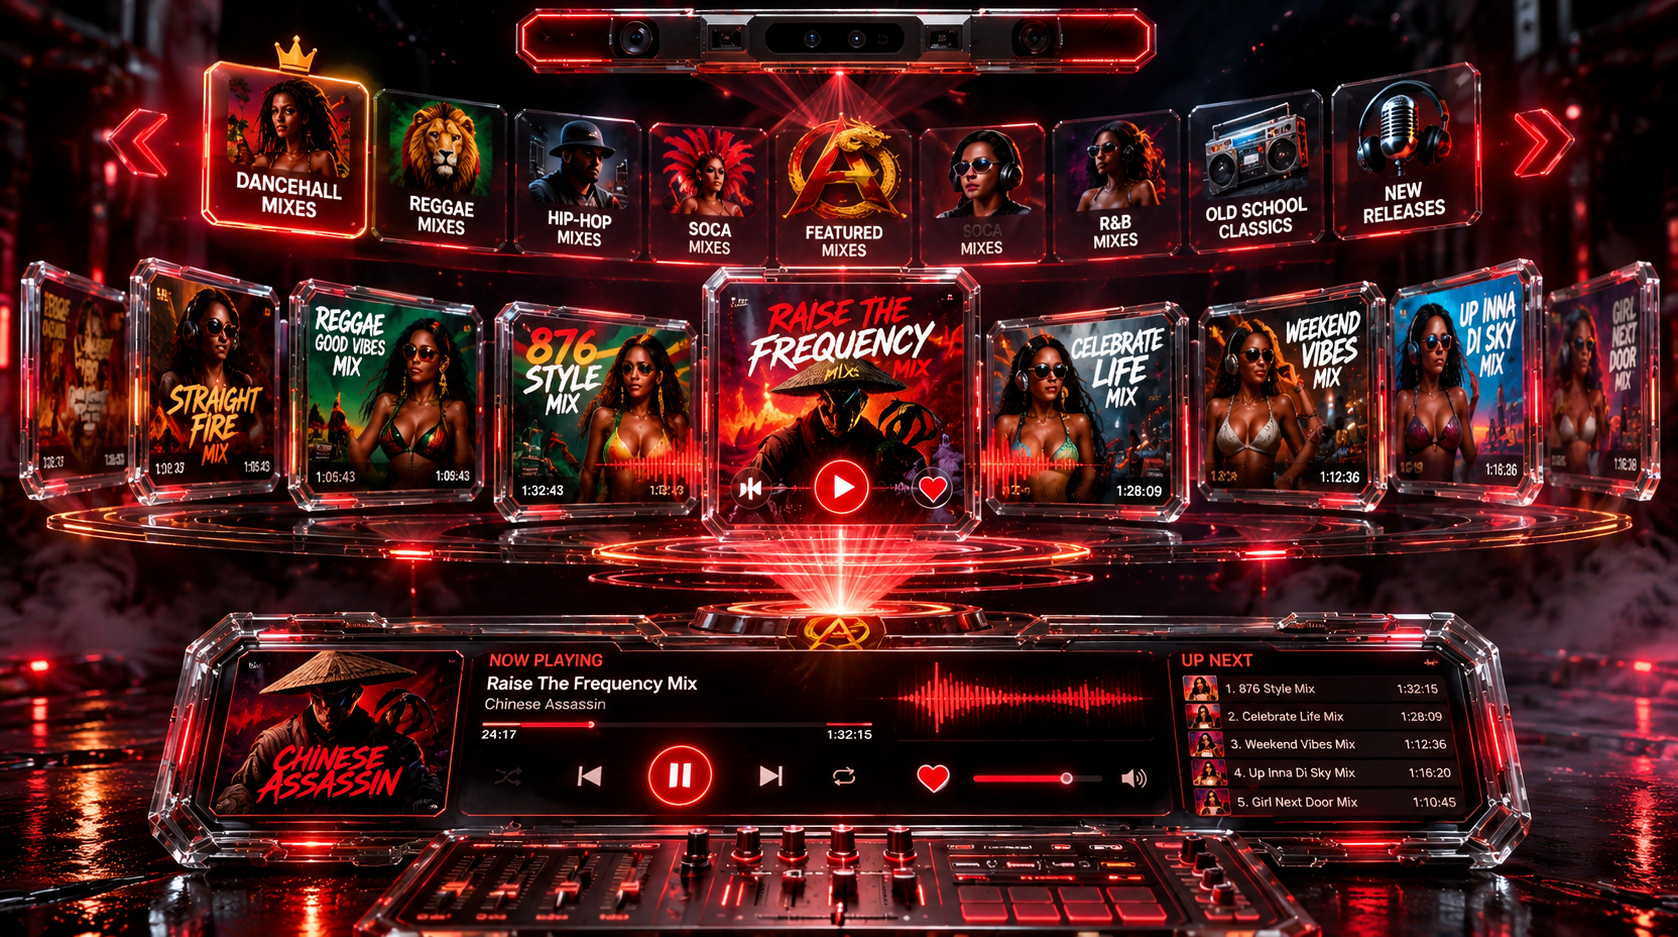
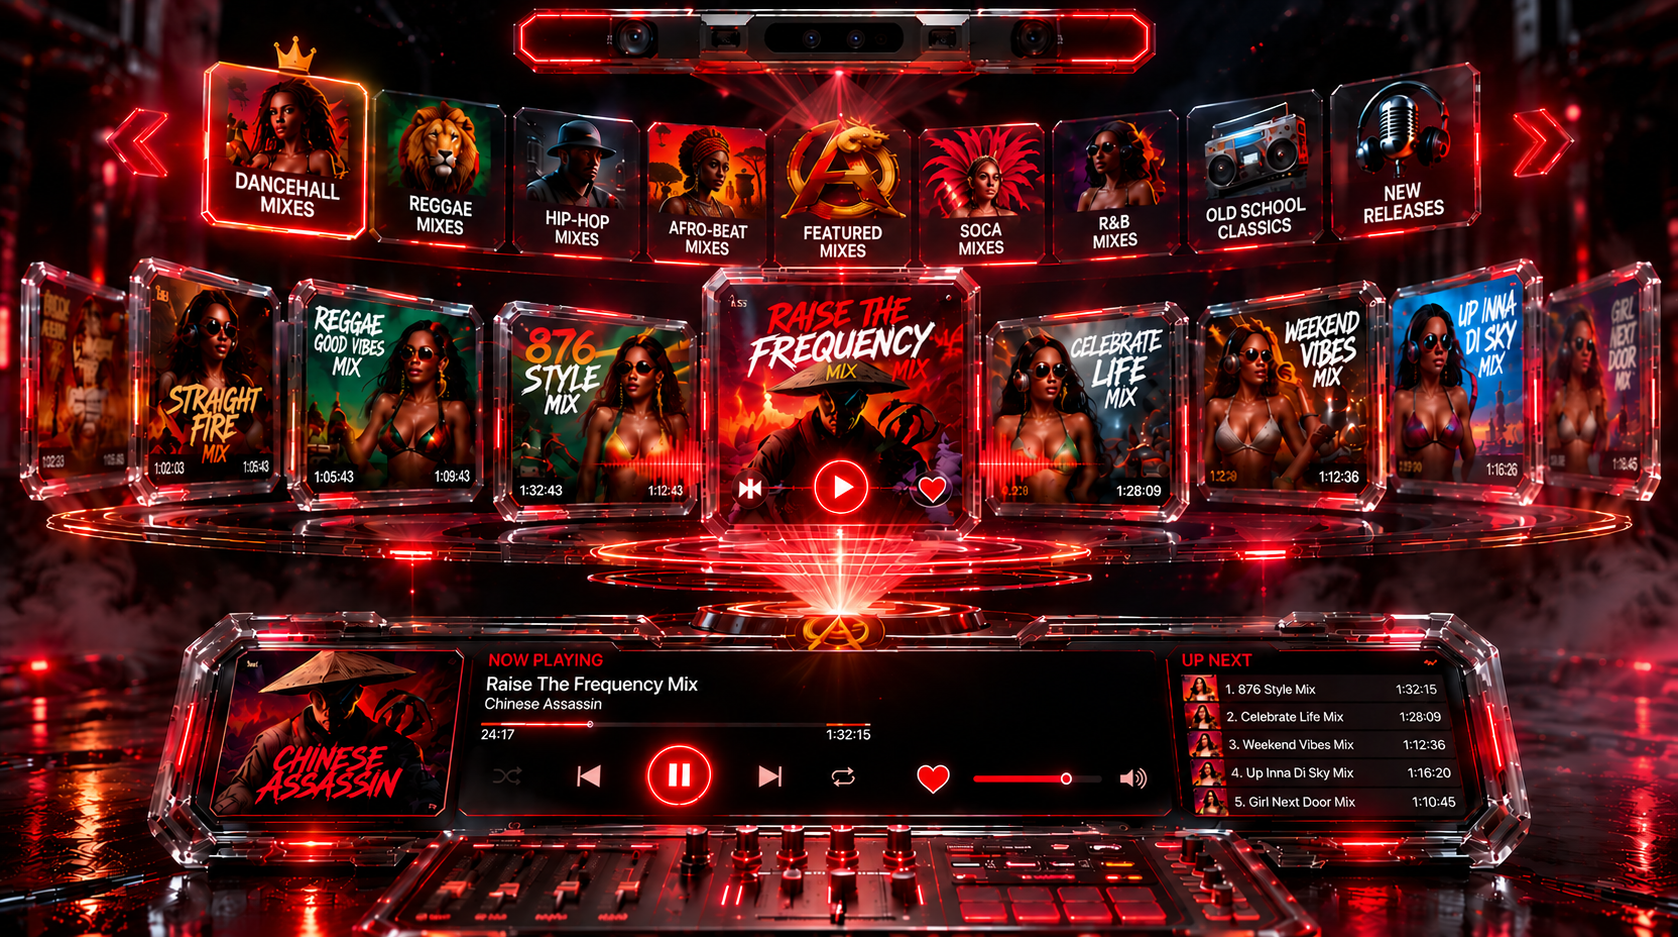
checkpoint: replaced with Chinese Assassin Holographic DJ Mixer2 and removed duplicate controls

Changed region(s): [[0.0, 0.0, 1.0, 1.0], [0.4958, 0.7737, 0.5268, 0.8356], [0.9917, 0.2476, 1.0, 0.2785]]

diff --git a/holographic-universe.html b/holographic-universe.html
@@ -188,76 +188,66 @@
     }
 
     /* ── 4. CONSOLE INTERACTIVE CONTROLS ── */
-    /* Dynamic Scrubber Overlay */
+    /* Transparent Scrubber Seeker Overlay (Preserves Original Painted Track) */
     .holo-scrubber-overlay {
       position: absolute;
       left: 22.53%;
-      top: 78.44%;
+      top: 78.10%;
       width: 23.54%;
-      height: 1.49%;
-      z-index: 30;
+      height: 2.20%;
+      z-index: 32;
       cursor: pointer;
       display: flex;
       align-items: center;
+      background: transparent;
+      touch-action: none;
     }
 
     .holo-scrubber-track-inner {
       position: relative;
       width: 100%;
-      height: 5px;
+      height: 100%;
       background: transparent;
-      border-radius: 3px;
+      border: none;
+      box-shadow: none;
     }
 
+    /* Duplicate visual progress bar and duplicate thumb suppressed */
     .holo-scrubber-fill-bar {
-      position: relative;
-      height: 100%;
-      width: 0%;
-      background: #ff1e38;
-      box-shadow: 0 0 10px #ff2a4b;
-      border-radius: 3px;
+      display: none !important;
     }
 
     .holo-scrubber-head {
-      position: absolute;
-      right: -6px;
-      top: -4px;
-      width: 13px;
-      height: 13px;
-      border-radius: 50%;
-      background: #ffffff;
-      box-shadow: 0 0 8px #ff2a4b, 0 0 15px #ffffff;
+      display: none !important;
     }
 
-    /* Transport Buttons */
+    /* Transport Buttons (Clean Transparent Hotspots - Zero Duplicate Borders/Icons) */
     .holo-ctrl-btn {
       position: absolute;
       border-radius: 50%;
       cursor: pointer;
       z-index: 30;
       background: transparent;
-      border: 1px solid transparent;
-      transition: all 0.18s ease;
+      border: none;
+      outline: none;
+      box-shadow: none;
+      transition: background 0.18s ease, box-shadow 0.18s ease;
       display: flex;
       align-items: center;
       justify-content: center;
-      outline: none;
     }
 
     .holo-ctrl-btn:hover {
-      background: rgba(255, 30, 56, 0.25);
-      border-color: #ff2a4b;
-      box-shadow: 0 0 14px rgba(255, 30, 56, 0.6);
-      transform: scale(1.1);
+      background: rgba(255, 30, 56, 0.18);
+      box-shadow: 0 0 12px rgba(255, 30, 56, 0.5);
     }
 
     .holo-ctrl-btn.active {
-      background: rgba(255, 30, 56, 0.4);
-      border-color: #ff2a4b;
-      box-shadow: 0 0 16px rgba(255, 30, 56, 0.8);
+      background: rgba(255, 30, 56, 0.30);
+      box-shadow: 0 0 16px rgba(255, 42, 75, 0.7);
     }
 
-    /* Big Center Hero Play/Pause Button */
+    /* Big Center Hero Play/Pause Button (Transparent Hotspot over Original Painted Artwork) */
     .holo-hero-play-btn {
       position: absolute;
       left: 33.67%;
@@ -268,37 +258,59 @@
       cursor: pointer;
       z-index: 35;
       background: transparent;
-      border: 2px solid transparent;
-      transition: all 0.2s cubic-bezier(0.16, 1, 0.3, 1);
+      border: none;
+      outline: none;
+      box-shadow: none;
+      transition: background 0.2s ease, box-shadow 0.2s ease;
     }
 
     .holo-hero-play-btn:hover {
-      background: rgba(255, 30, 56, 0.3);
-      border-color: #ff3344;
-      box-shadow: 0 0 25px rgba(255, 42, 75, 0.9);
-      transform: scale(1.08);
+      background: rgba(255, 30, 56, 0.15);
+      box-shadow: 0 0 20px rgba(255, 42, 75, 0.6);
     }
 
-    /* Volume Slider */
+    /* Volume Slider (Transparent Functional Overlay over Painted Artwork) */
     .holo-vol-slider-overlay {
       position: absolute;
       left: 55.90%;
-      top: 84.95%;
+      top: 84.50%;
       width: 8.94%;
-      height: 2.13%;
-      z-index: 30;
+      height: 3.00%;
+      z-index: 32;
       display: flex;
       align-items: center;
+      cursor: pointer;
+      touch-action: none;
     }
 
     .holo-vol-input {
       width: 100%;
-      height: 4px;
+      height: 100%;
       -webkit-appearance: none;
+      appearance: none;
       background: transparent;
       cursor: pointer;
-      accent-color: #ff2a4b;
       outline: none;
+      border: none;
+      margin: 0;
+      padding: 0;
+      opacity: 0.001; /* Completely transparent so only the painted artwork is visible */
+    }
+
+    .holo-vol-input::-webkit-slider-thumb {
+      -webkit-appearance: none;
+      appearance: none;
+      width: 22px;
+      height: 22px;
+      background: transparent;
+      cursor: pointer;
+    }
+
+    .holo-vol-input::-moz-range-thumb {
+      width: 22px;
+      height: 22px;
+      background: transparent;
+      cursor: pointer;
     }
 
     /* Up Next Queue Clickable Rows */
@@ -326,20 +338,10 @@
       border-color: #ff2a4b;
     }
 
-    /* Live Dynamic Waveform Equalizer Bars Overlay */
+    /* Duplicate Audio Spectrum Suppressed (Preserves Original Painted Spectrum) */
     .holo-waveform-overlay {
-      position: absolute;
-      left: 50.66%;
-      top: 73.64%;
-      width: 17.28%;
-      height: 9.07%;
-      z-index: 28;
-      display: flex;
-      align-items: center;
-      justify-content: center;
-      gap: 3px;
+      display: none !important;
       pointer-events: none;
-      opacity: 0.75;
     }
 
     .holo-eq-bar {
@@ -708,13 +710,36 @@
       if (!isRepeated) btnNext.click();
     };
 
-    scrubSeeker.onclick = (e) => {
+    // Drag-to-seek and click-to-seek pointer interaction
+    let isSeeking = false;
+    function seekToEvent(e) {
+      if (!audio || !audio.duration) return;
       const rect = scrubSeeker.getBoundingClientRect();
       const pos = Math.max(0, Math.min(1, (e.clientX - rect.left) / rect.width));
-      if (audio.duration) {
-        audio.currentTime = pos * audio.duration;
+      audio.currentTime = pos * audio.duration;
+      const m = Math.floor(audio.currentTime / 60);
+      const s = Math.floor(audio.currentTime % 60).toString().padStart(2, '0');
+      curTimeEl.textContent = `${m}:${s}`;
+    }
+
+    scrubSeeker.addEventListener('pointerdown', (e) => {
+      isSeeking = true;
+      try { scrubSeeker.setPointerCapture(e.pointerId); } catch(err){}
+      seekToEvent(e);
+    });
+
+    scrubSeeker.addEventListener('pointermove', (e) => {
+      if (isSeeking) seekToEvent(e);
+    });
+
+    const stopSeeking = (e) => {
+      if (isSeeking) {
+        isSeeking = false;
+        try { scrubSeeker.releasePointerCapture(e.pointerId); } catch(err){}
       }
     };
+    scrubSeeker.addEventListener('pointerup', stopSeeking);
+    scrubSeeker.addEventListener('pointercancel', stopSeeking);
 
     // Prev / Next
     btnPrev.onclick = () => {
